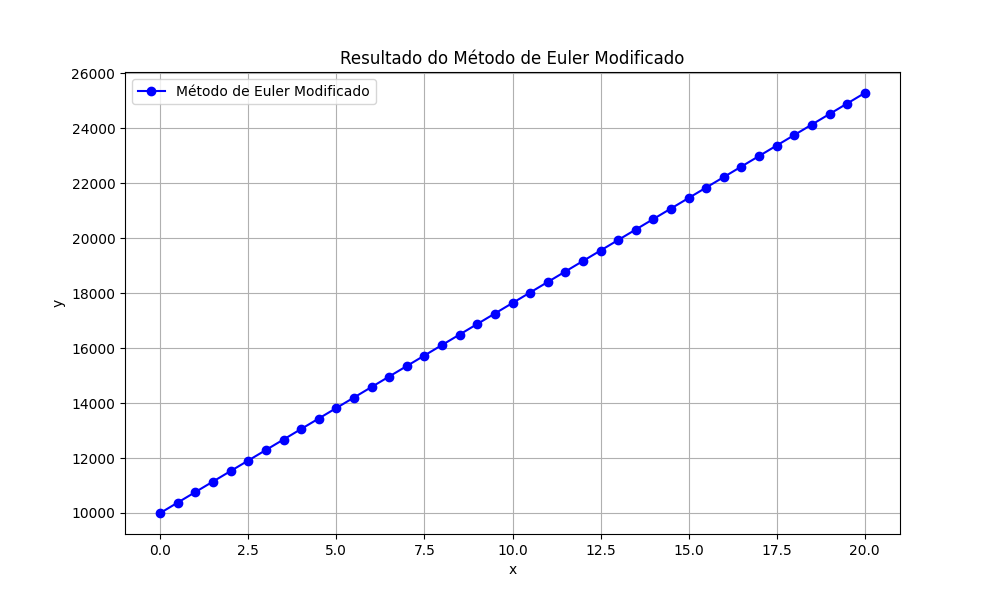
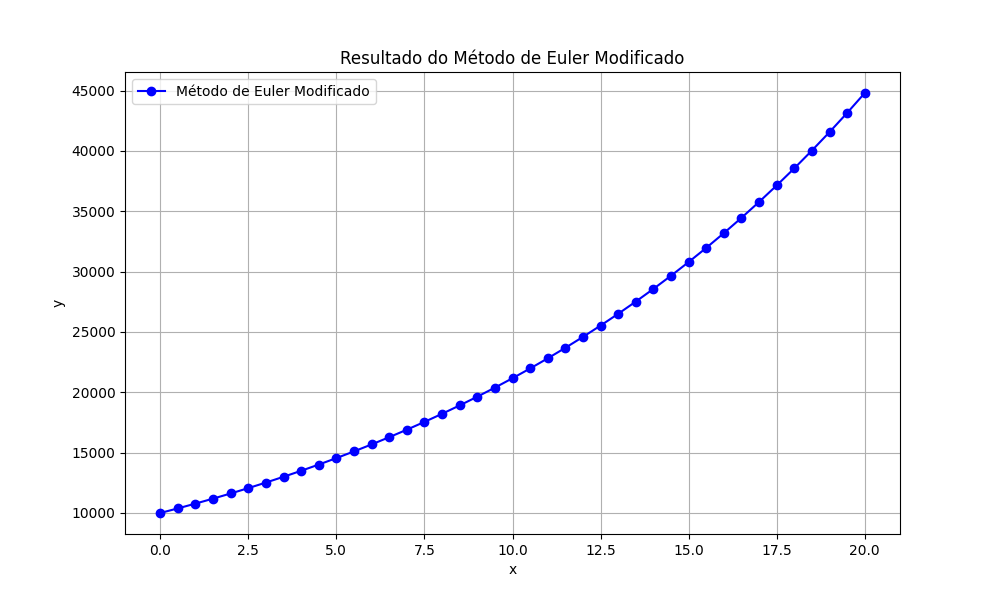
chore: Refactor euler_modificado.py and update output format

diff --git a/src/Relatorio3/euler_modificado.py b/src/Relatorio3/euler_modificado.py
@@ -1,19 +1,7 @@
 import sympy as sp
 from plot import plot
 
-def euler_modificado(f: sp.Expr, h: float, a: float, b: float, y0: float) -> list[(float, float)]:
-    """Calcula a solução de uma equação diferencial ordinária de primeira ordem pelo método de Euler Modificado.
-
-    Args:
-        f (sp.Expr): Expressão da função f(x, y)
-        h (float): Tamanho do passo
-        a (float): Limite inferior do intervalo
-        b (float): Limite superior do intervalo
-        y0 (float): Valor inicial de y
-
-    Returns:
-        list[(float, float)]: Lista de tuplas (x, y) com os valores de x e y para cada iteração
-    """
+def euler_modificado(f, h, a, b, y0):
     x = sp.Symbol('x')
     y = sp.Symbol('y')
     yi_2 = sp.Symbol('y')
@@ -28,8 +16,8 @@ def euler_modificado(f: sp.Expr, h: float, a: float, b: float, y0: float) -> lis
     # calcula os valores de x e y para cada iteração
     while xi < b:
         yi_2 = (yi + f.subs(x, xi).subs(y, yi)*h/2)
-        f = f.subs(x, xi + h/2).subs(y, yi_2)
-        yi = (yi + f*h).evalf()
+        f_ = f.subs(x, xi + h/2).subs(y, yi_2)
+        yi = (yi + f_*h).evalf()
         xi += h
         results.append((xi, yi))
     
@@ -88,11 +76,11 @@ def main():
                 out_file.write(f"\n]")
             else:
                 out_file.write(f",")
-            if (i + 1) % 4 == 0:
+            if (i + 1) % 3 == 0:
                 out_file.write("\n")
     
     # plota e salva o gráfico dos resultados
-    # plot(results, output.replace('.txt', '.png'), 'Método de Euler Modificado')
+    plot(results, output.replace('.txt', '.png'), 'Método de Euler Modificado')
 
 if __name__ == "__main__":
     main()
